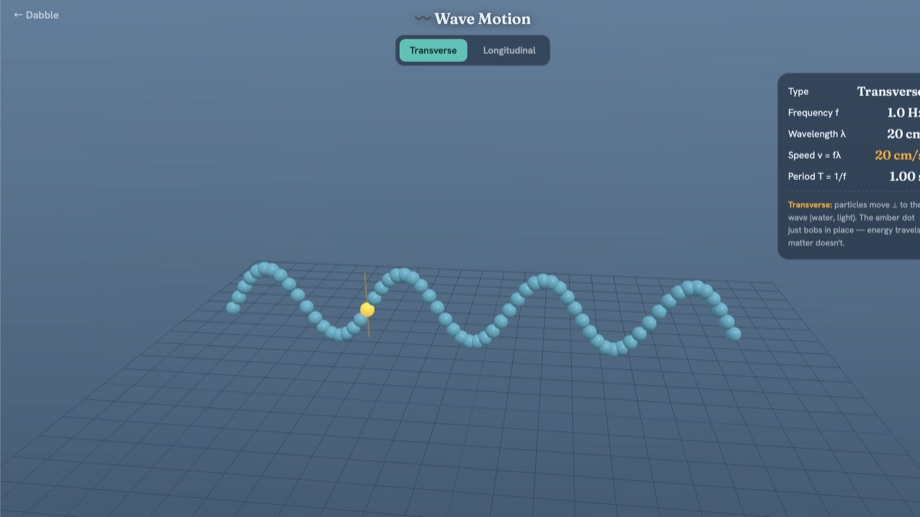
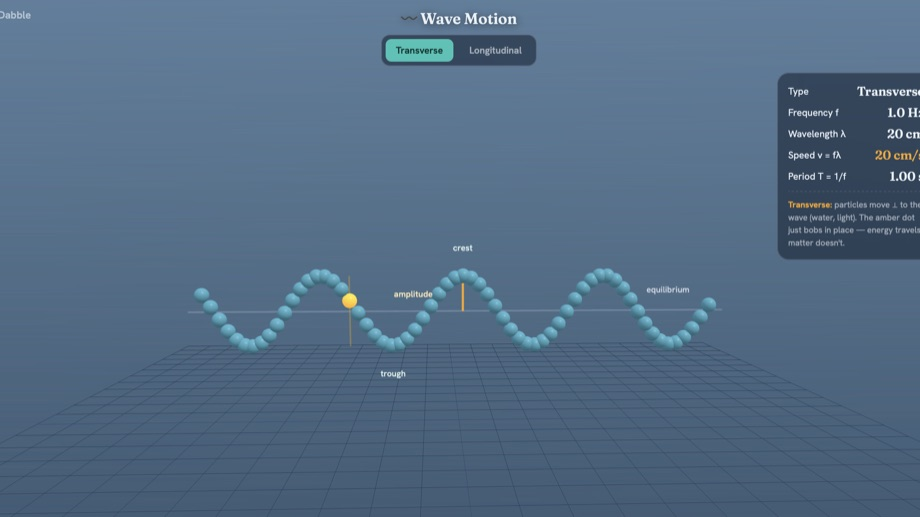
Wave Motion: label crest/trough/amplitude/equilibrium (transverse) + compression/rarefaction (longitudinal)

diff --git a/wavemotion.html b/wavemotion.html
@@ -84,9 +84,16 @@ const lgeo=new THREE.BufferGeometry();const lpos=new Float32Array(N*3);lgeo.setA
 const line=new THREE.Line(lgeo,new THREE.LineBasicMaterial({color:0x9fe6dd,transparent:true,opacity:.6}));scene.add(line);
 // guide for the highlighted particle (shows it stays at one x / oscillates about rest)
 const guide=new THREE.Mesh(new THREE.CylinderGeometry(.12,.12,20,6),new THREE.MeshBasicMaterial({color:0xf6a623,transparent:true,opacity:.35}));scene.add(guide);
+// labels + measure lines
+function labelSprite(text,color){const c=document.createElement('canvas');c.width=320;c.height=64;const g=c.getContext('2d');g.fillStyle=color||'#dfeaf5';g.font='600 30px Hanken Grotesk,sans-serif';g.textAlign='center';g.textBaseline='middle';g.fillText(text,160,34);const s=new THREE.Sprite(new THREE.SpriteMaterial({map:new THREE.CanvasTexture(c),transparent:true,depthWrite:false,depthTest:false}));s.scale.set(13,2.6,1);scene.add(s);return s;}
+const eqLine=new THREE.Mesh(new THREE.CylinderGeometry(.1,.1,76,6),new THREE.MeshBasicMaterial({color:0x9fb6cf,transparent:true,opacity:.45}));eqLine.rotation.z=Math.PI/2;scene.add(eqLine);
+const ampLine=new THREE.Mesh(new THREE.CylinderGeometry(.18,.18,1,6),new THREE.MeshBasicMaterial({color:0xf6a623}));scene.add(ampLine);
+const L_crest=labelSprite('crest','#bdeee6'),L_trough=labelSprite('trough','#bdeee6'),L_amp=labelSprite('amplitude','#ffd98a'),L_eq=labelSprite('equilibrium','#9fb6cf'),L_comp=labelSprite('compression','#ff9a8a'),L_rare=labelSprite('rarefaction','#8fd6e6');
+L_comp.visible=false;L_rare.visible=false;
 let type='trans', t=0;
 function setType(tp){type=tp;$('t-trans').classList.toggle('on',tp==='trans');$('t-long').classList.toggle('on',tp==='long');
   line.visible=(tp==='trans');
+  const tr=(tp==='trans');[eqLine,ampLine,L_crest,L_trough,L_amp,L_eq].forEach(o=>o.visible=tr);[L_comp,L_rare].forEach(o=>o.visible=!tr);
   $('o-tip').innerHTML = tp==='trans'
     ? '<b>Transverse:</b> particles move ⟂ to the wave (water, light). The amber dot just bobs in place.'
     : '<b>Longitudinal:</b> particles move along the wave — see the <b>compressions &amp; rarefactions</b> (sound).';
@@ -118,6 +125,13 @@ function tick(){requestAnimationFrame(tick);const dt=Math.min(clock.getDelta(),.
   const hrx=parts[HI].userData.x;
   if(type==='trans'){guide.visible=true;guide.rotation.set(0,0,0);guide.position.set(hrx,0,0);guide.scale.y=Math.max(.1,A/10);}
   else{guide.visible=true;guide.rotation.set(0,0,Math.PI/2);guide.position.set(hrx,0,0);guide.scale.y=Math.max(.1,A*0.7/10);}
+  // position the labels on the nearest crest / trough / compression / rarefaction
+  const lam=L, feat=(tp)=>{let x=(tp+w*t)/k;return x-Math.round((x+6)/lam)*lam;};
+  if(type==='trans'){const cx=feat(Math.PI/2),tx=feat(-Math.PI/2);
+    L_crest.position.set(cx,A+4,0);L_trough.position.set(tx,-A-4,0);
+    ampLine.position.set(cx,A/2,0);ampLine.scale.y=Math.max(.1,A);L_amp.position.set(cx-7,A/2,0);
+    L_eq.position.set(30,3,0);}
+  else{L_comp.position.set(feat(Math.PI),7,0);L_rare.position.set(feat(0),7,0);}
   renderer.render(scene,camera);}
 if(PREVIEW){$('f').value=1.2;$('l').value=18;$('a').value=6;}
 upd();resize();applyCam();tick();